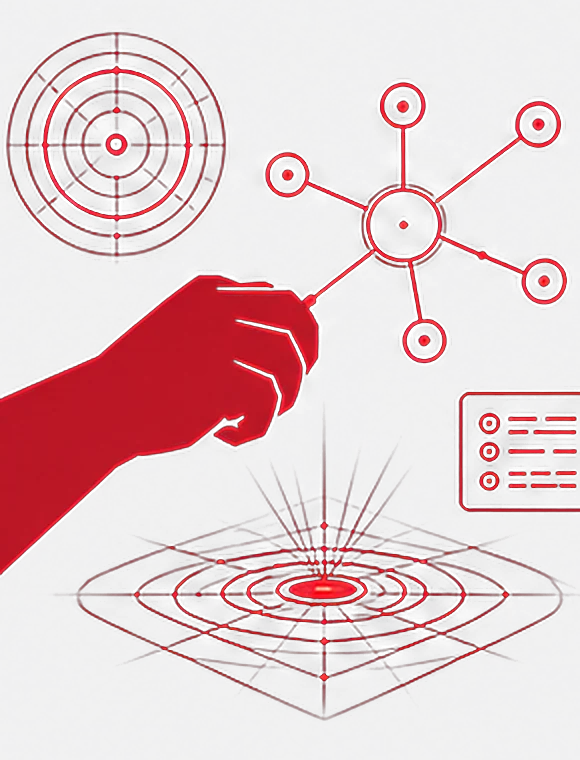
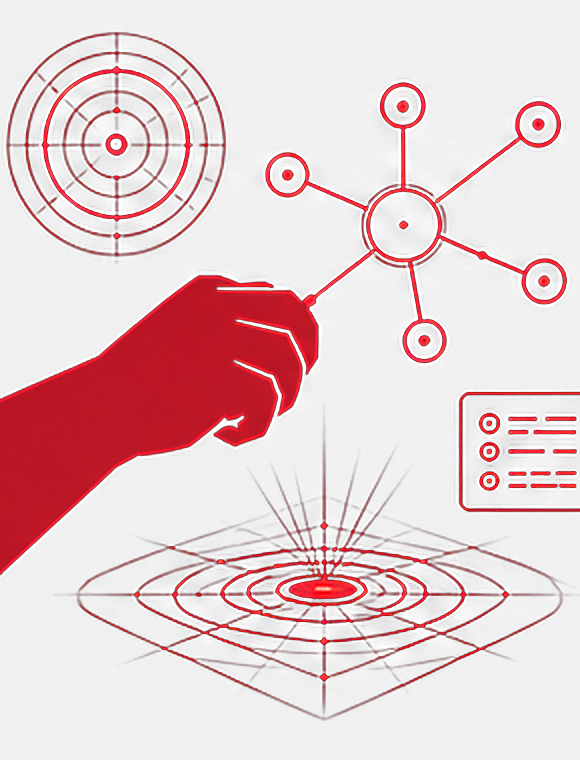
Fix duplicate OG alternate, harden the generator, switch art to lossless
Review found three real defects, all confirmed:

- /ru/ listed ru_RU as an alternate of itself. The generator replaced only
  the first og:locale:alternate and left the second behind, which appeared
  as soon as index.html gained a second one. Replace the whole run.

- The self-check counted data-i18n slots, which proves nothing about
  translation: a key missing from the dict leaves English in place and the
  count still matches. Now fails on any missing key. (None are missing today.)

- Nothing stopped ru/index.html drifting from index.html or site.js. The
  check now fails when the committed page differs from a fresh render.

Re-encode the work-card art lossless rather than quality 86. At a 3x zoom the
lossy version showed compression noise in the near-black background around the
glowing lines, and on a retina phone these render close to 1:1. Lossless is
pixel-identical to the PNG and still 24% smaller.

Blocking-phase payload 2304 KB -> 1849 KB (the earlier 1202 KB figure was the
lossy encode). Device matrix passes 7/7.

Also bring the English Organization schema up to the Hebrew page's
Organization + ProfessionalService, which had locality, service types and
areaServed the other two languages lacked.

Claude-Session: https://claude.ai/code/session_013adM2Kh1CKadn8HAZ1WLBw

Changed region(s): [[0.8379, 0.5447, 0.869, 0.575]]

diff --git a/ru/index.html b/ru/index.html
@@ -31,7 +31,6 @@
 <meta property="og:locale" content="ru_RU">
 <meta property="og:locale:alternate" content="en_US">
 <meta property="og:locale:alternate" content="he_IL">
-<meta property="og:locale:alternate" content="ru_RU">
 <meta property="og:title" content="Red Crown Interactive · Интерактивное ПО для науки, инженерии и VR">
 <meta property="og:description" content="Red Crown Interactive разрабатывает интерактивное ПО для науки, инженерии и VR на Meta Quest, мобильных устройствах и ПК, на Unity, от идеи до внедрения.">
 <meta property="og:url" content="https://redcrowninteractive.com/ru/">
@@ -45,24 +44,31 @@
 <script type="application/ld+json">
 {
   "@context": "https://schema.org",
-  "@type": "Organization",
+  "@type": ["Organization","ProfessionalService"],
   "name": "Red Crown Interactive",
   "url": "https://redcrowninteractive.com/",
+  "inLanguage": "en",
   "logo": "https://redcrowninteractive.com/assets/logo-kit/redcrown-solid.png",
+  "image": "https://redcrowninteractive.com/og-image.png",
   "description": "Студия разработки на Unity, создающая интерактивное ПО для науки, инженерии и VR на Meta Quest, мобильных устройствах и ПК.",
+  "slogan": "International quality, no compromises",
   "email": "hello@redcrowninteractive.com",
   "telephone": "+972-58-576-0550",
+  "priceRange": "$$$",
+  "areaServed": ["IL","Worldwide"],
+  "serviceType": ["Virtual Reality development","VR development","Augmented Reality development","XR development","Mobile app development","PC application development","Unity development","Scientific visualization"],
   "founder": {
     "@type": "Person",
     "name": "Julia Pavlov",
-    "jobTitle": "Founder",
+    "jobTitle": "Founder and Lead Engineer",
+    "alumniOf": ["Technion – Israel Institute of Technology","Tel Aviv University"],
     "sameAs": "https://www.linkedin.com/in/julia-pavlov"
   },
-  "address": { "@type": "PostalAddress", "addressCountry": "IL" },
+  "address": { "@type": "PostalAddress", "addressLocality": "Haifa", "addressCountry": "IL" },
   "sameAs": [
     "https://www.linkedin.com/company/red-crown-interactive"
   ],
-  "knowsAbout": ["Virtual Reality","Augmented Reality","Unity Engine","Educational Simulations","Meta Quest Development"]
+  "knowsAbout": ["Virtual Reality","Augmented Reality","Mixed Reality","Unity","VR development","XR development","Meta Quest 3","Scientific visualization","Mobile app development","Machine learning"]
 }
 </script>
 <script type="application/ld+json">

diff --git a/index.html b/index.html
@@ -59,24 +59,31 @@
 <script type="application/ld+json">
 {
   "@context": "https://schema.org",
-  "@type": "Organization",
+  "@type": ["Organization","ProfessionalService"],
   "name": "Red Crown Interactive",
   "url": "https://redcrowninteractive.com/",
+  "inLanguage": "en",
   "logo": "https://redcrowninteractive.com/assets/logo-kit/redcrown-solid.png",
+  "image": "https://redcrowninteractive.com/og-image.png",
   "description": "Unity development studio building interactive software for science, engineering, and VR across Meta Quest, mobile, and PC.",
+  "slogan": "International quality, no compromises",
   "email": "hello@redcrowninteractive.com",
   "telephone": "+972-58-576-0550",
+  "priceRange": "$$$",
+  "areaServed": ["IL","Worldwide"],
+  "serviceType": ["Virtual Reality development","VR development","Augmented Reality development","XR development","Mobile app development","PC application development","Unity development","Scientific visualization"],
   "founder": {
     "@type": "Person",
     "name": "Julia Pavlov",
-    "jobTitle": "Founder",
+    "jobTitle": "Founder and Lead Engineer",
+    "alumniOf": ["Technion – Israel Institute of Technology","Tel Aviv University"],
     "sameAs": "https://www.linkedin.com/in/julia-pavlov"
   },
-  "address": { "@type": "PostalAddress", "addressCountry": "IL" },
+  "address": { "@type": "PostalAddress", "addressLocality": "Haifa", "addressCountry": "IL" },
   "sameAs": [
     "https://www.linkedin.com/company/red-crown-interactive"
   ],
-  "knowsAbout": ["Virtual Reality","Augmented Reality","Unity Engine","Educational Simulations","Meta Quest Development"]
+  "knowsAbout": ["Virtual Reality","Augmented Reality","Mixed Reality","Unity","VR development","XR development","Meta Quest 3","Scientific visualization","Mobile app development","Machine learning"]
 }
 </script>
 <script type="application/ld+json">

diff --git a/tools/build_lang_page.js b/tools/build_lang_page.js
@@ -226,7 +226,9 @@ function build(lang) {
   // Every version points at every version, itself included.
   const alts = Object.keys(LANGS).filter(l => l !== lang)
     .map(l => `<meta property="og:locale:alternate" content="${LANGS[l].ogLocale}">`).join(EOL);
-  html = html.replace(/<meta property="og:locale:alternate"[^>]*>/, () => alts);
+  // Replace the whole consecutive run: leaving one behind would list this page's
+  // own locale as an alternate of itself.
+  html = html.replace(/(?:<meta property="og:locale:alternate"[^>]*>\r?\n?)+/, () => alts + EOL);
 
   html = html.replace(/(<link rel="alternate" hreflang="[^"]*"[^>]*>\r?\n)+/, () => hreflangBlock(EOL));
 
@@ -262,6 +264,21 @@ function check(lang) {
   }
   const slots = count(src, /data-i18n="/g);
   if (count(out, /data-i18n="/g) !== slots) problems.push('data-i18n slots lost');
+
+  // Counting slots proves nothing about translation: a key missing from the dict
+  // leaves the English text in place and the counts still match.
+  const dict = loadDicts()[lang] || {};
+  const keys = [...new Set([...src.matchAll(/data-i18n(?:-aria|-placeholder)?="([^"]+)"/g)]
+    .map(m => m[1]))];
+  for (const k of keys.filter(k => dict[k] == null)) {
+    problems.push(`missing ${lang} translation, English would ship: ${k}`);
+  }
+
+  // A generated page that drifts from index.html/site.js is worse than none.
+  const onDisk = path.join(ROOT, lang, 'index.html');
+  if (fs.existsSync(onDisk) && fs.readFileSync(onDisk, 'utf8') !== out) {
+    problems.push(`${lang}/index.html is stale: regenerate with "node tools/build_lang_page.js ${lang} > ${lang}/index.html"`);
+  }
   // Anything still document-relative would resolve under /<lang>/ and 404.
   const rel = [...out.matchAll(/\b(href|src|srcset|poster)="([^"]+)"/g)]
     .flatMap(([, a, v]) => v.split(',').map(s => s.trim().split(/\s/)[0]).map(u => [a, u]))
